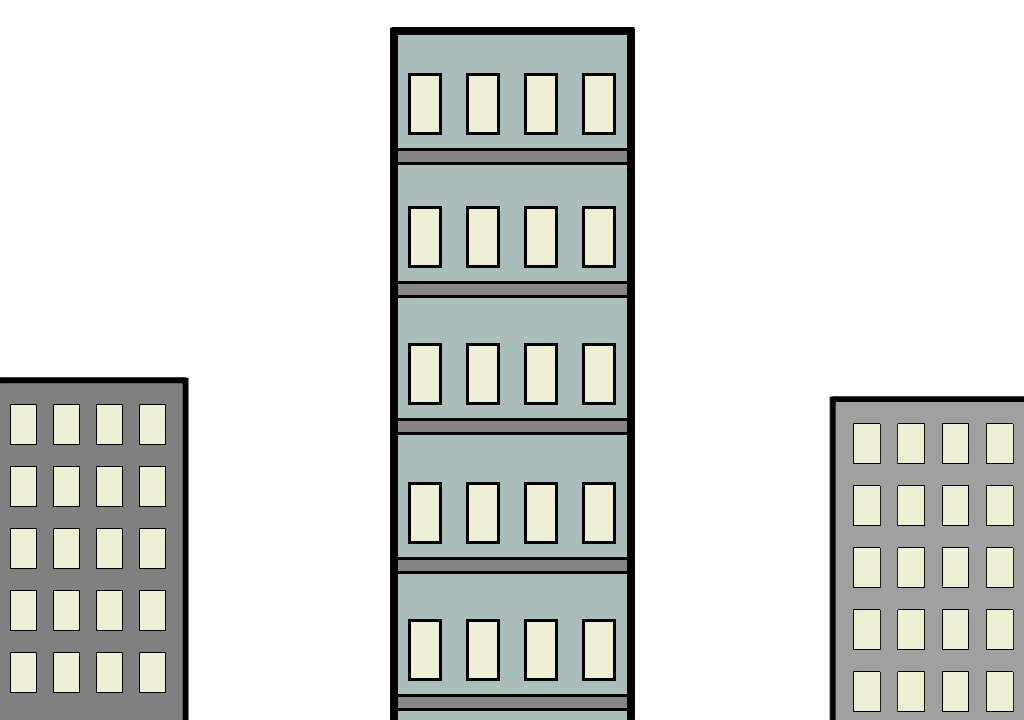
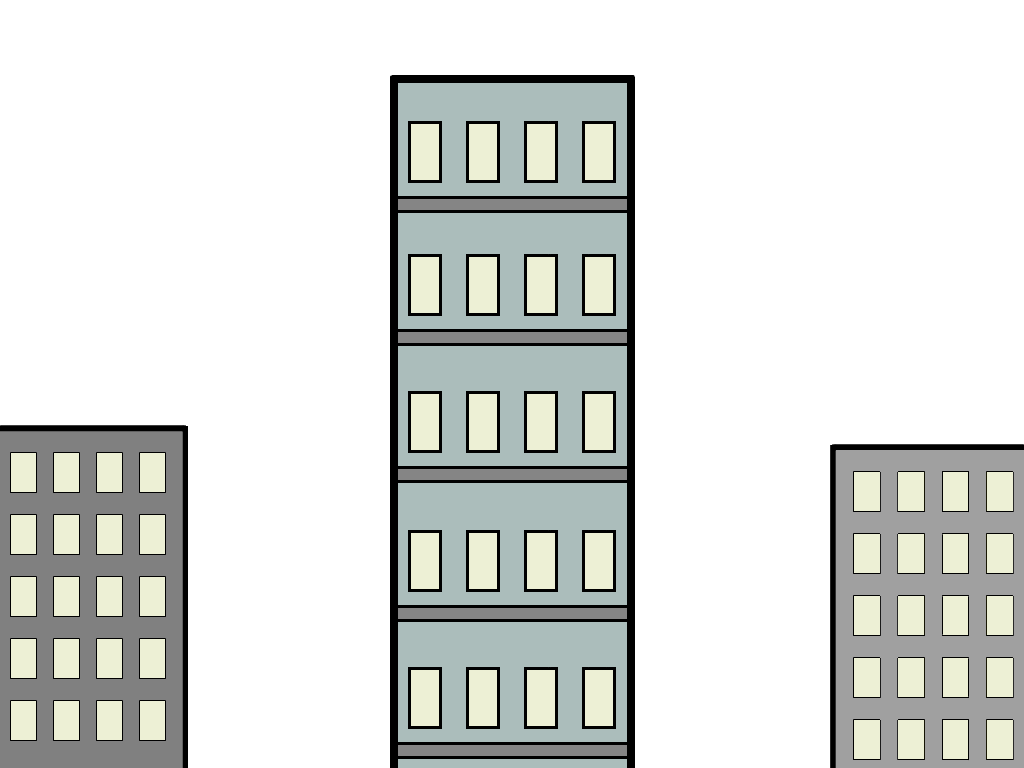
merger som faen fuck wc wx :wx wc x :qa : :x :qa!

diff --git a/Tanks/src/level/testLevel.java b/Tanks/src/level/testLevel.java
@@ -73,16 +73,15 @@ public class testLevel extends BasicLevel {
 		addEntity(tankEntity2);
 
 		AnimationFactory.getInstance().addSpriteSheet(new File("./res/Explosion1.png"), Animations.EXPLOSIONS, 50, 50);
-		AnimationFactory.getInstance().addSpriteSheet(new File("./res/Explosion2.png"), Animations.EXPLOSIONS, 100, 100);
+		AnimationFactory.getInstance().addSpriteSheet(new File("./res/Explosion2.png"), Animations.EXPLOSIONS2, 100, 100);
 
 		scoreBubble = new RGBImage(new File("./res/Scorebubble.png"));
 		grenade = new RGBImage(new File("./res/Grenade_temp.png"));
 		rocket = new RGBImage(new File("./res/Rocket.png"));
 		shell = new RGBImage(new File("./res/Shell_temp.png"));
-		tank1 = new RGBImage(new File("./res/Tank_Flat.png"));
 		tank2 = new RGBImage(new File("./res/Tank2.png"));
 
-		// terrain = new Terrain(new File("./res/testlvl.png"));
+//		terrain = new Terrain(new File("./res/testlvl.png"));
 		terrain = new Terrain(new File("./res/Cityscape_terrain.png"));
 		backGround = new RGBImage(new File("./res/Cityscape_background.png"));
 		crossHair1 = new RGBImage(new File("./res/Crosshair.png"));
@@ -93,29 +92,6 @@ public class testLevel extends BasicLevel {
 	//
 	public void tick(double dt) {
 		super.tick(dt);
-		// addEntity(new ScoreBubble(rand.nextInt(1000), 10, 5, this, 0.3, 0,
-		// 100));
-		// addEntity(new ScoreBubble(rand.nextInt(1000), 10, 5, this, 0.3, 0,
-		// 100));
-		// addEntity(new ScoreBubble(rand.nextInt(1000), 10, 5, this, 0.3, 0,
-		// 100));
-		// addEntity(new ScoreBubble(rand.nextInt(1000), 10, 5, this, 0.3, 0,
-		// 100));
-		// addEntity(new ScoreBubble(rand.nextInt(1000), 10, 5, this, 0.3, 0,
-		// 100));
-		// addEntity(new ScoreBubble(rand.nextInt(1000), 10, 5, this, 0.3, 0,
-		// 100));
-		// addEntity(new ScoreBubble(rand.nextInt(1000), 10, 5, this, 0.3, 0,
-		// 100));
-		// addEntity(new ScoreBubble(rand.nextInt(1000), 10, 5, this, 0.3, 0,
-		// 100));
-		// addEntity(new ScoreBubble(rand.nextInt(1000), 10, 5, this, 0.3, 0,
-		// 100));
-		// addEntity(new ScoreBubble(rand.nextInt(1000), 10, 5, this, 0.3, 0,
-		// 100));
-		// addEntity(new ScoreBubble(rand.nextInt(1000), 10, 5, this, 0.3, 0,
-		// 100));
-		// System.out.println("Objects: " + entities.size() );
 	}
 
 	public void onDraw(Renderer renderer) {
@@ -127,17 +103,6 @@ public class testLevel extends BasicLevel {
 		for (Entity ent : entities) {
 			ent.render(renderer);
 		}
-
-		renderer.DrawImage(terrain, -1, 0, 0, terrain.getWidth(), terrain.getHeight());
-
-		renderer.DrawImage(tank1, -1, (int) tankEntity1.getLocation()[0] - (int) tankEntity1.getXr(),
-				(int) tankEntity1.getLocation()[1] - (int) tankEntity1.getYr() + 1, tank1.getWidth(), tank1.getHeight());
-		renderer.DrawImage(tank2, -1, (int) tankEntity2.getLocation()[0] - (int) tankEntity2.getXr(),
-				(int) tankEntity2.getLocation()[1] - (int) tankEntity2.getYr() + 1, tank2.getWidth(), tank2.getHeight());
-		renderer.DrawImage(crossHair1, -1, (int) tankEntity1.getCrosshairLocation().getX() - crossHair1.getWidth() / 2, (int) tankEntity1
-				.getCrosshairLocation().getY() - crossHair1.getHeight() / 2, crossHair1.getWidth(), crossHair1.getHeight());
-		renderer.DrawImage(crossHair2, -1, (int) tankEntity2.getCrosshairLocation().getX() - crossHair2.getWidth() / 2, (int) tankEntity2
-				.getCrosshairLocation().getY() - crossHair2.getHeight() / 2, crossHair2.getWidth(), crossHair2.getHeight());
 
 	}
 

diff --git a/Tanks/src/entity/Rocket.java b/Tanks/src/entity/Rocket.java
@@ -7,16 +7,17 @@ import level.BasicLevel;
 
 public class Rocket extends Projectile {
 
+	RGBImage rocketSheet = ResourceManager.ROCKET;
 	int explosionRadius = 40;
 	double explosionPower = 200;
-	double thrust = 0.3;
-	int fuel = 90;
+	double thrust = 0.6;
+	int fuel = 50;
 	int ticks = 0;
 	
 	public Rocket(double x, double y, BasicLevel level, double speedPercent,
 			double angle) {
 		super(x, y, 4, 4, level, speedPercent, angle);
-		this.maxSpeed = 10;
+		this.maxSpeed = 8;
 		this.frictionConstant = 0.004;
 		this.angle = angle;
 		this.dx = dx * maxSpeed;
@@ -35,7 +36,6 @@ public class Rocket extends Projectile {
 		for (FloatingPoint point : hitbox) {
 			if (level.getTerrain().hitTestpoint((int) (x + point.getX()),
 					(int) (y + point.getY()))){
-				System.out.println("Traff bakke");
 				return true;
 			}
 		}
@@ -59,6 +59,8 @@ public class Rocket extends Projectile {
 		this.accelerate(thrust * Math.cos(Math.toRadians(angle)),
 				-thrust* Math.sin(Math.toRadians(angle)));
 		 }
+		 this.angle = (Math.toDegrees(Math.atan2(-dy,dx)) + 360)%360;
+		 System.out.println(angle);
 		 if (intersectsTerrain() || handleIntersections()) {
 		 explode();
 		 remove();
@@ -66,11 +68,29 @@ public class Rocket extends Projectile {
 	
 		 ticks++;
 	}
-
+	
 	@Override
 	public void render(Renderer renderer) {
-		// TODO Auto-generated method stub
-		RGBImage img = ResourceManager.ROCKET;
+		int subimageIndex = 0;
+		if(angle > 337.5 ||(angle >= 0 && angle <= 22.5))
+			subimageIndex = 0;
+		else if (angle > 22.5 && angle <= 67.5)
+			subimageIndex = 1;
+		else if(angle > 67.5 && angle <= 112.5)
+			subimageIndex = 2;
+		else if(angle > 112.5 && angle <= 157.5)
+			subimageIndex = 3;
+		else if(angle > 157.5 && angle <= 202.5)
+			subimageIndex = 4;
+		else if(angle > 202.5 && angle <= 247.5)
+			subimageIndex = 5;
+		else if(angle > 247.5 && angle <= 292.5)
+			subimageIndex = 6;
+		else
+			subimageIndex = 7;
+		
+		
+		RGBImage img = rocketSheet.getSubImage(14*subimageIndex, 0, 14, 14);
 		renderer.DrawImage(img ,-1, (int) (x - getXr()),(int) (y - getYr()), img.getWidth(), img.getHeight());
 		
 	}

diff --git a/Tanks/src/baseGame/testGame.java b/Tanks/src/baseGame/testGame.java
@@ -1,6 +1,6 @@
 package baseGame;
 
-import gfx.BlueMaggot;
+//import gfx.BlueMaggot;
 import inputhandler.InputHandler;
 
 import java.awt.Color;
@@ -22,7 +22,7 @@ import entity.Entity;
 public class testGame extends BaseGame implements ConnectionDelegate {
 
 	public static int WIDTH = 1024;
-	public static int HEIGHT = 720;
+	public static int HEIGHT = 768;
 	public static Dimension DIMENSION = new Dimension(WIDTH, HEIGHT);
 	public static int ALPHA_MASK = -1;
 
@@ -38,27 +38,26 @@ public class testGame extends BaseGame implements ConnectionDelegate {
 	private OnlineLevel onlineLevel;
 	private ConnectionManager connection;
 
-	public BlueMaggot blueMaggot;
+//	public BlueMaggot blueMaggot;
 
 	public void init() {
-		System.out.println(0xFF0000);
-		System.out.println(0xFF0000 & -1);
+		this.addKeyListener(handler);
 		startReuglarGame();
 		// startOnlineGame(false);
 		// startOnlineGame(true);
 		// startGame();
 	}
 
-	public testGame(BlueMaggot blueMaggot) {
-//		blueMaggot.inputReal = handler;
-		super.blueMaggot = blueMaggot;
-
-		addKeyListener(handler);
-		setBackgroundColor(Color.BLACK);
-		Random random = new Random();
-		setBackgroundColor(Color.BLACK);
-		connection = new ConnectionManager(this);
-	}
+//	public testGame(BlueMaggot blueMaggot) {
+////		blueMaggot.inputReal = handler;
+//		super.blueMaggot = blueMaggot;
+//
+//		addKeyListener(handler);
+//		setBackgroundColor(Color.BLACK);
+//		Random random = new Random();
+//		setBackgroundColor(Color.BLACK);
+//		connection = new ConnectionManager(this);
+//	}
 
 	public void onUpdate(double deltaTime) {
 		deltaTime *= 0.0625;

diff --git a/Tanks/src/entity/Explosion.java b/Tanks/src/entity/Explosion.java
@@ -15,9 +15,12 @@ public class Explosion extends Entity {
 		super(x, y, radius, radius, level);
 
 		this.explosionPower = explosionPower;
-		if (radius >= 25)
-			ani = new Animation(AnimationFactory.getInstance().getAnimation(Animations.EXPLOSIONS, Animations.SMALLEXPLOSION), 18, 0, x, y, level);
-		ani = new Animation(AnimationFactory.getInstance().getAnimation(Animations.EXPLOSIONS, Animations.BIGEXPLOSION), 26, 0, x, y, level);
+		if (radius <= 25)
+			ani = new Animation(AnimationFactory.getInstance().getAnimation(Animations.EXPLOSIONS,
+					Animations.SMALLEXPLOSION), 18, 0, x, y, level);
+		else
+			ani = new Animation(AnimationFactory.getInstance().getAnimation(Animations.EXPLOSIONS2,
+					Animations.BIGEXPLOSION), 26, 0, x, y, level);
 		level.addEntity(ani);
 	}
 
@@ -29,12 +32,10 @@ public class Explosion extends Entity {
 			double radius = Math.sqrt(deltaX * deltaX + deltaY * deltaY);
 			if (radius > this.xr)
 				continue;
-			other.accelerate(other.damageTaken * explosionPower * deltaX / (radius * 50), other.damageTaken * explosionPower * deltaY / (radius * 50));
+			other.accelerate(other.damageTaken * explosionPower * deltaX / (radius * 50), other.damageTaken
+					* explosionPower * deltaY / (radius * 50));
 
 			other.takeDamage(explosionPower / 500);
-			// level.addEntity(new
-			// Animation(AnimationFactory.getInstance().getAnimation(Animations.EXPLOSIONS,
-			// Animations.EXPLOSIONS_BIG), 0, 0, x, y, level));
 		}
 	}
 

diff --git a/Tanks/src/entity/Tank.java b/Tanks/src/entity/Tank.java
@@ -32,7 +32,8 @@ public class Tank extends Entity {
 	private boolean canGoDown = true;
 	private boolean chargingCannon = false;
 	private int currentWeapon = 0;
-
+	private double torque = 0.15;
+	
 	private ArrayList<Weapon> weaponList = new ArrayList<Weapon>();
 	private PixelHitbox boxUnderCenter;
 	private PixelHitbox boxLeft;
@@ -190,12 +191,12 @@ public class Tank extends Entity {
 		if (input.right1.down && canGoRight) {
 
 			if (dx < 2)
-				accelerate(0.2, 0);
+				accelerate(torque, 0);
 
 		}
 		if (input.left1.down && canGoLeft) {
 			if (dx > -2)
-				accelerate(-0.2, 0);
+				accelerate(-torque, 0);
 		}
 		if (input.fire1.clicked) {
 			chargingCannon = true;
@@ -219,11 +220,11 @@ public class Tank extends Entity {
 		if (input.right2.down && canGoRight) {
 
 			if (dx < 2)
-				accelerate(0.2, 0);
+				accelerate(torque, 0);
 		}
 		if (input.left2.down && canGoLeft) {
 			if (dx > -2)
-				accelerate(-0.2, 0);
+				accelerate(-torque, 0);
 		}
 		if (input.fire2.clicked) {
 			chargingCannon = true;

diff --git a/Tanks/src/baseGame/BaseGame.java b/Tanks/src/baseGame/BaseGame.java
@@ -16,7 +16,7 @@ import baseGame.Rendering.Renderer;
 import baseGame.animations.AnimationFactory;
 
 import entity.Entity;
-import gfx.BlueMaggot;
+//import gfx.BlueMaggot;
 
 public abstract class BaseGame extends Canvas implements Runnable {
 
@@ -52,7 +52,7 @@ public abstract class BaseGame extends Canvas implements Runnable {
 	private Rectangle gameRect;
 	
 	// the Game
-	public BlueMaggot blueMaggot;
+//	public BlueMaggot blueMaggot;
 
 	public void init(int width, int height, int fps) {
 		AnimationFactory.getInstance();
@@ -95,7 +95,7 @@ public abstract class BaseGame extends Canvas implements Runnable {
 			deltaTime = System.currentTimeMillis() - lastTime;
 			lastTime = System.currentTimeMillis();
 			
-			blueMaggot.tick();
+//			blueMaggot.tick();
 			if (!BaseGame.PAUSED)
 				onUpdate(deltaTime);
 			

diff --git a/Tanks/src/inputhandler/InputHandler.java b/Tanks/src/inputhandler/InputHandler.java
@@ -17,7 +17,7 @@ public class InputHandler implements KeyListener {
 	public Key down1 = new Key(keys);
 	public Key left1 = new Key(keys);
 	public Key right1 = new Key(keys);
-	public Key fire1 = new HeldKey(keys, 100);
+	public Key fire1 = new Key(keys);
 	public Key rotateR1 = new Key(keys);
 	public Key rotateL1 = new Key(keys);
 
@@ -25,7 +25,7 @@ public class InputHandler implements KeyListener {
 	public Key down2 = new Key(keys);
 	public Key left2 = new Key(keys);
 	public Key right2 = new Key(keys);
-	public Key fire2 = new HeldKey(keys, 100);
+	public Key fire2 = new Key(keys);
 	public Key rotateR2 = new Key(keys);
 	public Key rotateL2 = new Key(keys);
 	public Key grenadeSpam = new Key(keys);

diff --git a/Tanks/src/gfx/ResourceManager.java b/Tanks/src/gfx/ResourceManager.java
@@ -13,7 +13,7 @@ public class ResourceManager {
 	public static final RGBImage SCOREBUBBLE = new RGBImage(new File("./res/Scorebubble.png"));
 	public static final RGBImage CROSSHAIR1 = new RGBImage(new File("./res/Crosshair.png"));
 	public static final RGBImage CROSSHAIR2 = new RGBImage(new File("./res/Crosshair.png"));
-	public static final RGBImage ROCKET = new RGBImage(new File("./res/Rocket.png"));
+	public static final RGBImage ROCKET = new RGBImage(new File("./res/Rocket_sheet.png"));
 	public static final RGBImage GRENADE = new RGBImage(new File("./res/Grenade_temp.png"));
 	private static Terrain terrain;
 	private static RGBImage backGround;

diff --git a/Tanks/src/entity/Animations.java b/Tanks/src/entity/Animations.java
@@ -2,10 +2,11 @@ package entity;
 
 public class Animations {
 	public static final String EXPLOSIONS = "e";
-	public static final int BIGEXPLOSION = 0;
+	public static final String EXPLOSIONS2 = "e2";
 	public static final String TEST = "t";
 	public static final int TEST_ANIMATION = 0;
 	public static final String SPRITES = "spriteSheet1";
 	public static final int SMALLEXPLOSION = 0;
+	public static final int BIGEXPLOSION = 0;
 	
 }

diff --git a/Tanks/src/entity/Entity.java b/Tanks/src/entity/Entity.java
@@ -98,7 +98,7 @@ public abstract class Entity implements NetworkObject {
 		move(dt);
 		gravitate();
 
-		if (x > testGame.WIDTH + 100 || x < -100 || y > testGame.HEIGHT + 100 || y < -800)
+		if (x > testGame.WIDTH + 100 || x < -100 || y > testGame.HEIGHT + 100 || y < -1000)
 			remove();
 	}
 

diff --git a/Tanks/src/level/BasicLevel.java b/Tanks/src/level/BasicLevel.java
@@ -33,7 +33,6 @@ public class BasicLevel {
 
 	public void init() {
 		entities = new ArrayList<Entity>();
-
 	}
 
 	public void addEntity(Entity ent) {
